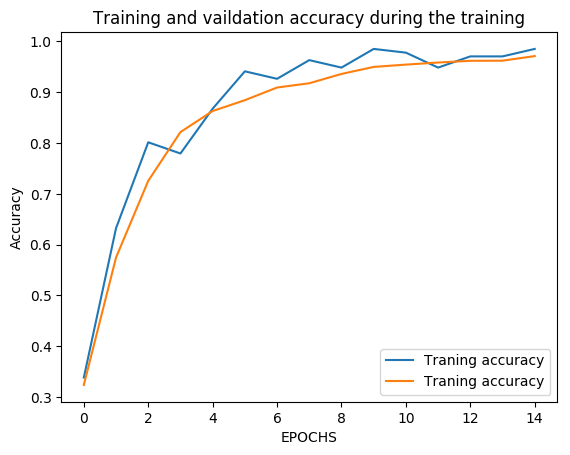
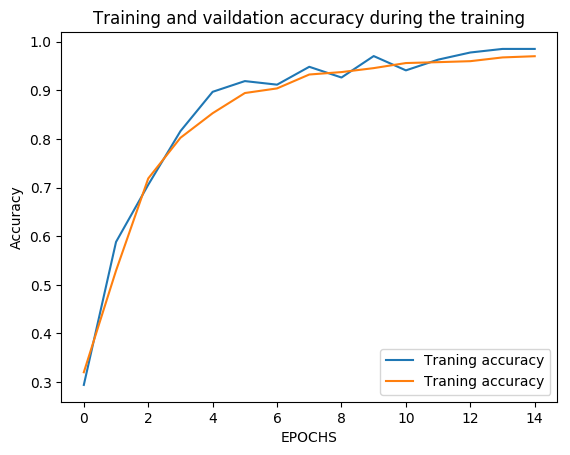
Project3: Readme updated to colab project changes.
Readme is updated with minor changes which were in made in the .ipynb file.

diff --git a/Project-3-Traffic-Sign-Classifier/README.md b/Project-3-Traffic-Sign-Classifier/README.md
@@ -1,12 +1,4 @@
-# **Traffic Sign Recognition** 
-
-## Writeup
-
-### You can use this file as a template for your writeup if you want to submit it as a markdown file, but feel free to use some other method and submit a pdf if you prefer.
-
----
-
-**Build a Traffic Sign Recognition Project**
+# **Traffic Sign Recognition** Project 
 
 The goals / steps of this project are the following:
 * Load the data set (see below for links to the project data set)
@@ -139,7 +131,7 @@ My final model consisted of the following layers:
 Hyperparameters for training:
 
 ```python
-rate = 0.001
+rate = 0.0005
 EPOCHS = 15
 BATCH_SIZE = 128 # + 20 % augmentated images
 ```
@@ -154,9 +146,9 @@ Results:
 
 | Set name   | Accuracy |
 | ---------- | -------- |
-| Training   | 0.993    |
-| Validation | 0.967    |
-| Test       | 0.954    |
+| Training   | 0.992    |
+| Validation | 0.970    |
+| Test       | 0.956    |
 
 If an iterative approach was chosen:
 
